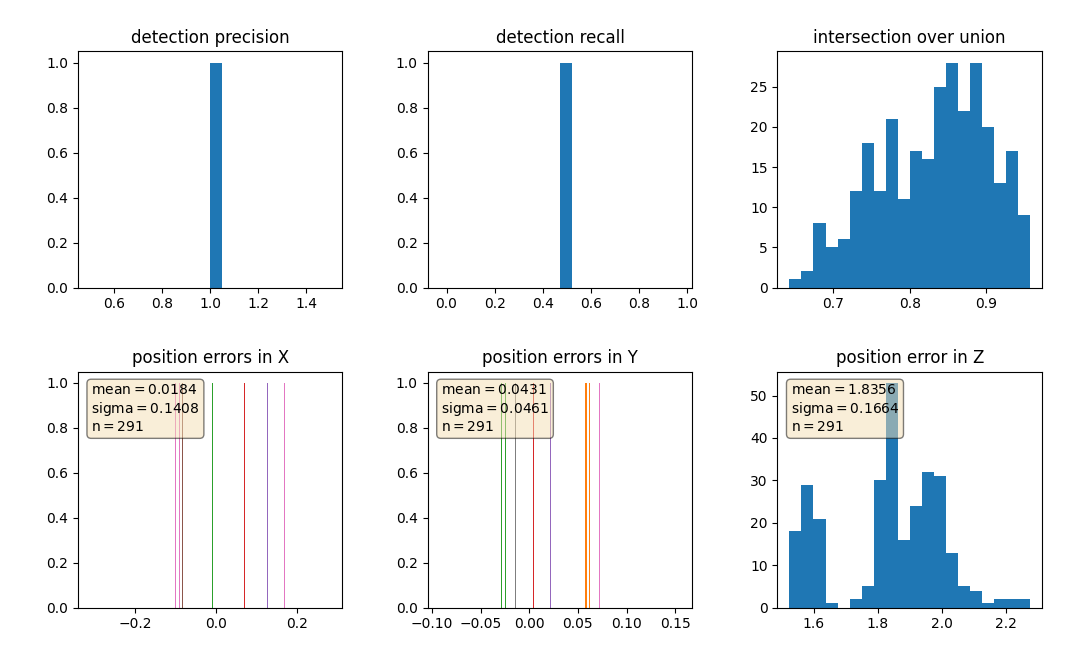
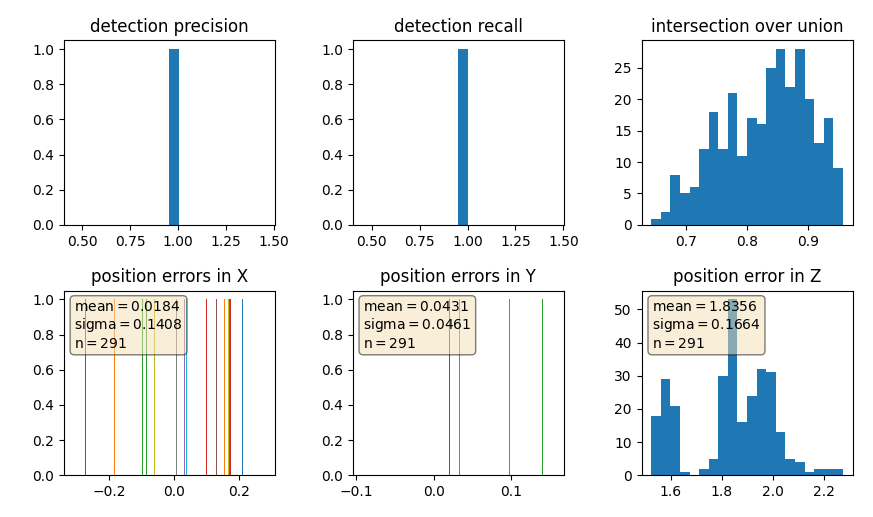
fixed bug

diff --git a/student/objdet_eval.py b/student/objdet_eval.py
@@ -83,20 +83,13 @@ def measure_detection_performance(detections, labels, labels_valid, min_iou=0.5)
     
     ## step 1 : compute the total number of positives present in the scene
     all_positives  = 0
-    for label in labels:
-        if label.type==1:
+    for idx, label in enumerate(labels):
+        if label.type == 1 and labels_valid[idx] == True:
             all_positives += 1
      ## step 2 : compute the number of false negatives
-    false_negatives = 0
-    for idx, label in enumerate(labels):
-        if label.type == 1 and labels_valid[idx] == False:
-            false_negatives += 1
+    false_negatives = all_positives - true_positives
     ## step 3 : compute the number of false positives
-    false_positives = 0
-    for idx, label in enumerate(labels):
-        if labels_valid[idx] == True and label.type != 1:
-            false_positives += 1
-    
+    false_positives = len(detections) - true_positives
     #######
     ####### ID_S4_EX2 END #######     
     
@@ -135,7 +128,8 @@ def compute_performance_stats(det_performance_all, configs_det):
     #######    
     ####### ID_S4_EX3 END #######     
     print('precision = ' + str(precision) + ", recall = " + str(recall))   
-    # first run precision = 1.0, recall = 0.47163695299837927
+    # precision = 1.0, recall = 0.47163695299837927
+    # precision = 0.9540983606557377, recall = 0.9509803921568627
     # serialize intersection-over-union and deviations in x,y,z
     ious_all = [element for tupl in ious for element in tupl]
     devs_x_all = []
